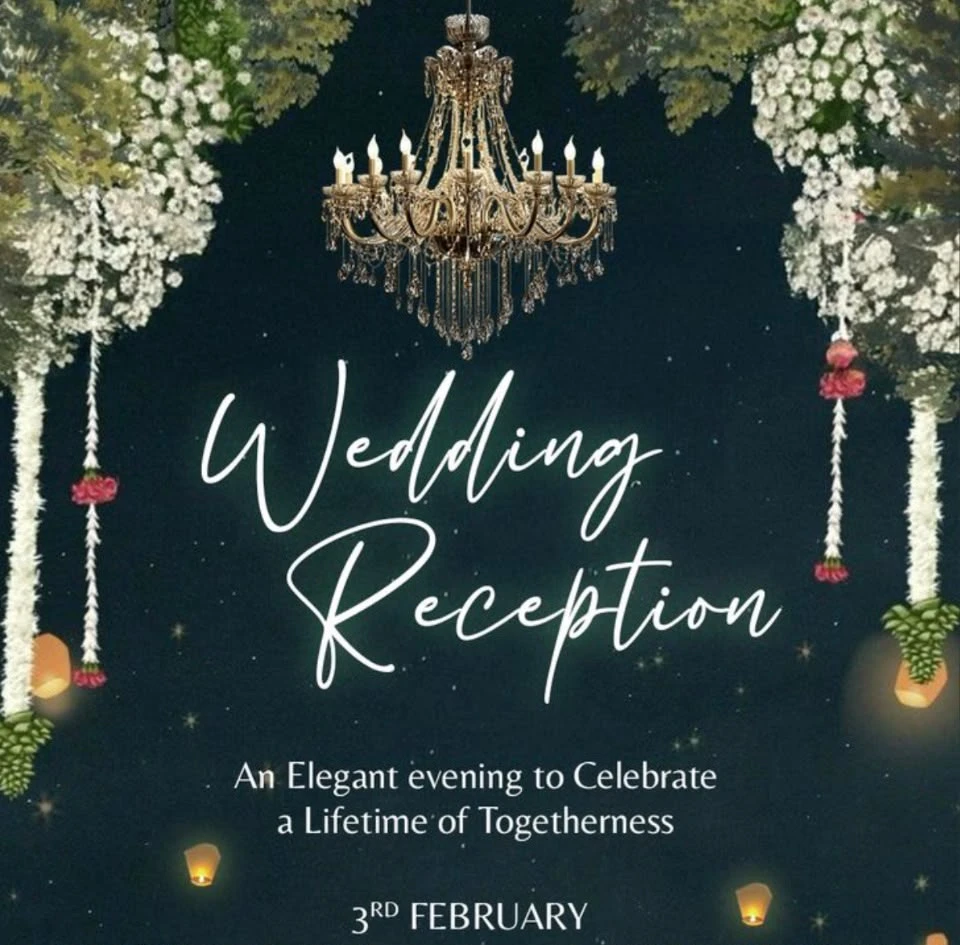
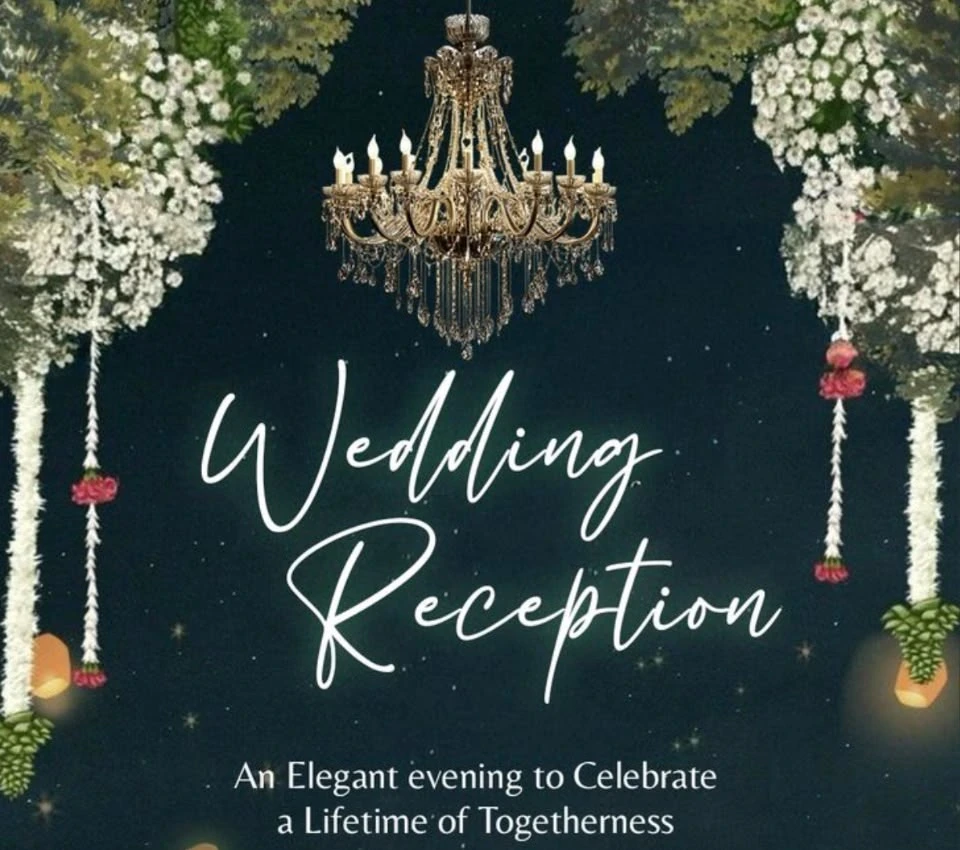
fix(assets): crop out 3rd February date text from Grand Wedding Reception artwork and add cache busting

diff --git a/index.html b/index.html
@@ -491,7 +491,7 @@
         <article class="ceremony-card luxury-reveal-item" data-delay="100">
           <div class="ceremony-card-header tag-haldi">DAY 1 • 25 NOV 2026 • LODHIYA</div>
           <div class="ceremony-img-wrap">
-            <img src="assets/event_haldi_mehendi.webp" alt="Haldi &amp; Mehndi Ceremony of Saurav &amp; Saumya" class="ceremony-img" loading="lazy">
+            <img src="assets/event_haldi_mehendi.webp?v=20261102" alt="Haldi &amp; Mehndi Ceremony of Saurav &amp; Saumya" class="ceremony-img" loading="lazy">
           </div>
           <div class="ceremony-body">
             <div class="c-time-badge">Wednesday, Nov 25, 2026 • 10:00 AM Onwards</div>
@@ -568,7 +568,7 @@
         <article class="ceremony-card luxury-reveal-item" data-delay="400">
           <div class="ceremony-card-header tag-reception">DAY 3 • 28 NOV 2026 • NEW DELHI</div>
           <div class="ceremony-img-wrap">
-            <img src="assets/event_reception_gala.webp" alt="Grand Reception &amp; Dinner" class="ceremony-img" loading="lazy">
+            <img src="assets/event_reception_gala.webp?v=20261102" alt="Grand Wedding Reception Gala" class="ceremony-img" loading="lazy">
           </div>
           <div class="ceremony-body">
             <div class="c-time-badge">Saturday, Nov 28, 2026 • 07:30 PM Onwards</div>
